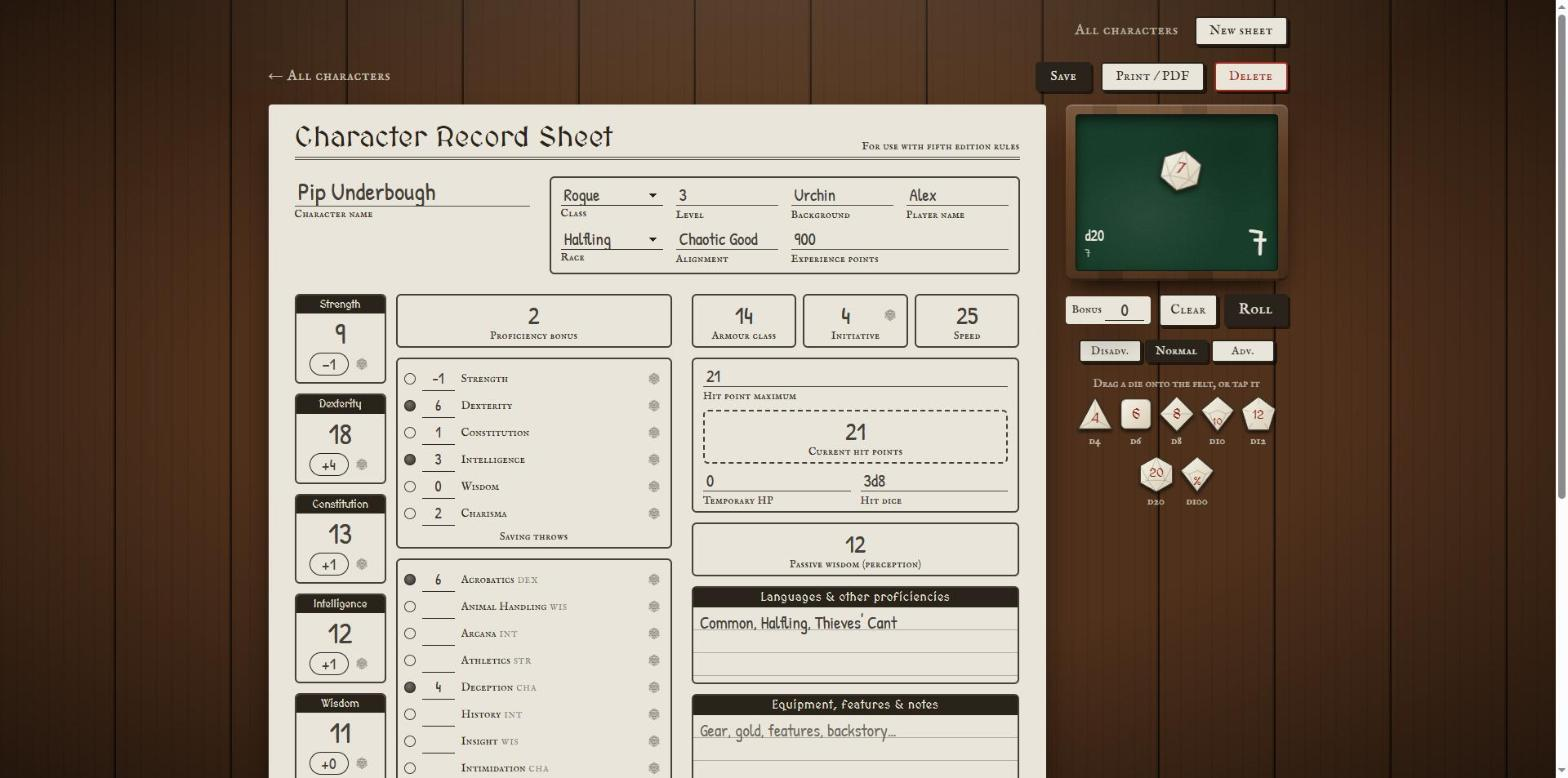
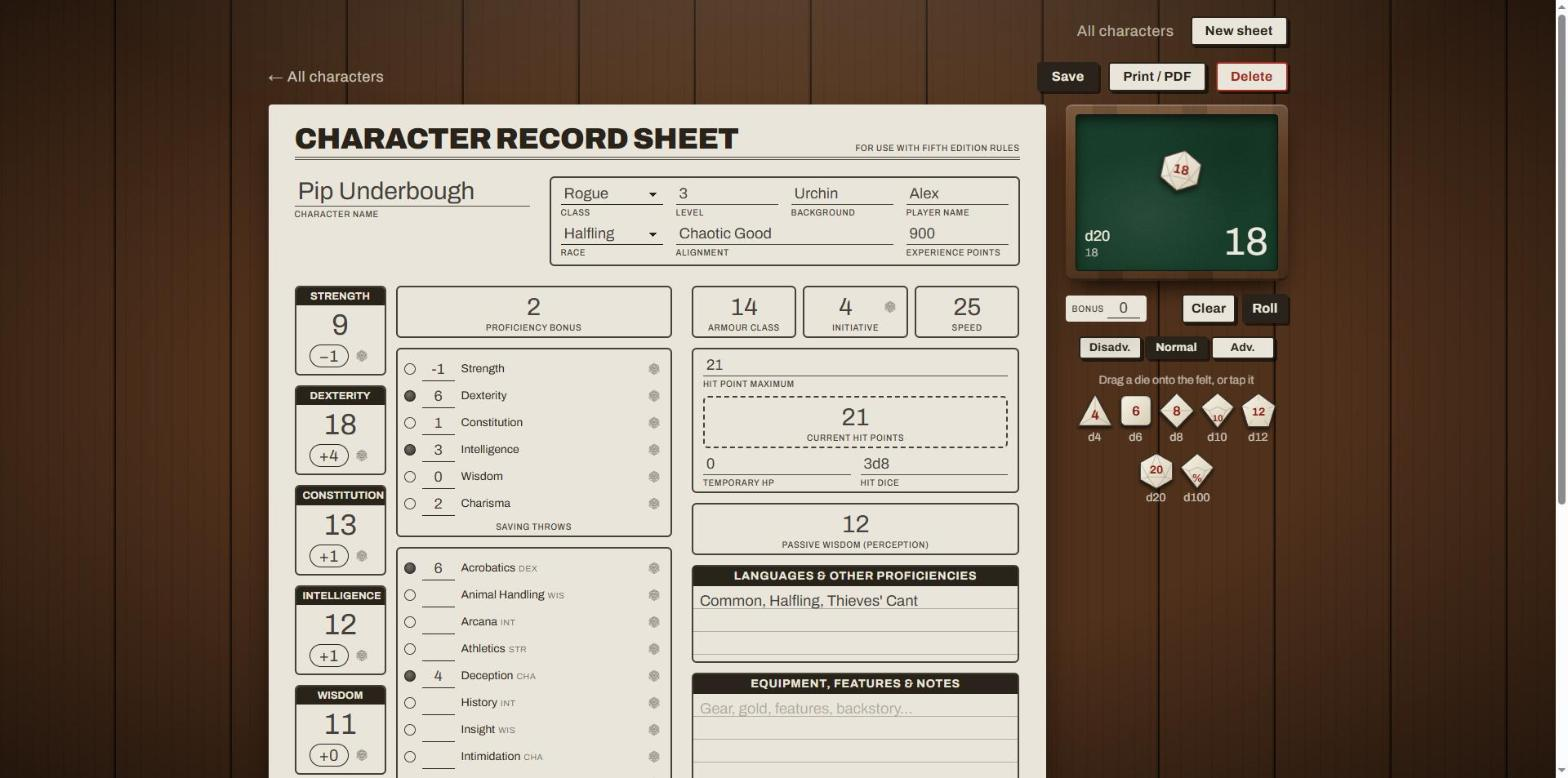
Use Archivo as the single font
Replaces the handwriting, small-caps serif and fantasy fonts with one
family, using weight for hierarchy: black for the sheet title, bold for
section bars and buttons, medium small capitals for printed labels and
regular for what the player writes. Numbers are tabular. The alignment
box now spans two columns so longer alignments fit, and the screenshots
are retaken.

diff --git a/frontend/src/components/character/DiceTray.jsx b/frontend/src/components/character/DiceTray.jsx
@@ -72,7 +72,7 @@ const Board = ({ roller, boardRef, highlight }) => {
       className={`tray-felt flex min-h-[12rem] flex-col p-3 transition ${highlight ? 'outline-2 outline-offset-[-6px] outline-dashed outline-[#ece8dc]/70' : ''}`}
     >
       {dice.length === 0 ? (
-        <p className="m-auto max-w-[13rem] text-center font-hand text-lg leading-snug text-[#e8e4d8]/75">
+        <p className="m-auto max-w-[13rem] text-center text-lg leading-snug text-[#e8e4d8]/75">
           Drag dice onto the felt, then press Roll.
         </p>
       ) : (
@@ -103,7 +103,7 @@ const Board = ({ roller, boardRef, highlight }) => {
       )}
 
       {(pool.length > 0 || rolled) && (
-        <div className="mt-2 flex items-end justify-between gap-2 font-hand text-[#ece8dc]" aria-live="polite">
+        <div className="mt-2 flex items-end justify-between gap-2 text-[#ece8dc]" aria-live="polite">
           <div className="min-w-0">
             <p className="truncate text-lg leading-tight">{latest?.label ?? roller.label ?? describePool(pool, Number(roller.modifier) || 0)}</p>
             {rolled && (
@@ -117,7 +117,7 @@ const Board = ({ roller, boardRef, highlight }) => {
         </div>
       )}
       {rolled?.critical && (
-        <p className={`text-center font-hand text-xl ${rolled.critical === 'success' ? 'text-[#f2d77a]' : 'text-[#f0a296]'}`}>
+        <p className={`text-center text-xl ${rolled.critical === 'success' ? 'text-[#f2d77a]' : 'text-[#f0a296]'}`}>
           {rolled.critical === 'success' ? 'Natural 20!' : 'Natural 1…'}
         </p>
       )}
@@ -150,17 +150,17 @@ const DiceTray = ({ roller }) => {
           <input
             type="number"
             aria-label="Bonus to add to the roll"
-            className="hand w-12 border-b-[1.5px] border-ink text-center"
+            className="hand w-10 border-b-[1.5px] border-ink text-center"
             value={roller.modifier}
             onChange={(e) => roller.setModifier(e.target.value)}
           />
         </label>
         <div className="flex gap-2">
-          <button type="button" className="btn px-3" onClick={roller.clearBoard} disabled={roller.pool.length === 0}>Clear</button>
+          <button type="button" className="btn px-2.5" onClick={roller.clearBoard} disabled={roller.pool.length === 0}>Clear</button>
           <button
             ref={rollButtonRef}
             type="button"
-            className="btn-dark px-4 text-lg"
+            className="btn-dark px-2.5"
             onClick={roller.roll}
             disabled={roller.pool.length === 0}
           >
@@ -213,7 +213,7 @@ const DiceTray = ({ roller }) => {
             <h3 className="label">Earlier rolls</h3>
             <button type="button" className="label cursor-pointer hover:text-redpen" onClick={roller.clearHistory}>clear</button>
           </div>
-          <ol className="mt-1 max-h-48 overflow-y-auto font-hand text-lg">
+          <ol className="mt-1 max-h-48 overflow-y-auto text-lg">
             {roller.history.slice(1).map((entry) => (
               <li key={entry.id} className="flex justify-between gap-2 border-b border-ink/20 text-pencil">
                 <span className="truncate">{entry.label}</span>

diff --git a/frontend/src/index.css b/frontend/src/index.css
@@ -2,10 +2,7 @@
 
 /* A paper character sheet on a table in a wood-panelled basement, circa 1994. */
 @theme {
-  --font-hand: "Patrick Hand", "Comic Sans MS", cursive;
-  --font-print: "IM Fell English SC", Georgia, serif;
-  --font-fantasy: "MedievalSharp", Georgia, serif;
-  --font-sans: "IM Fell English SC", Georgia, serif;
+  --font-sans: "Archivo", "Helvetica Neue", Arial, sans-serif;
 
   --color-wood-900: #1d1109;
   --color-wood-800: #2b190d;
@@ -24,7 +21,8 @@
 @layer base {
   body {
     @apply min-h-screen text-ink;
-    font-family: var(--font-print);
+    font-family: var(--font-sans);
+    font-variant-numeric: tabular-nums;
     background-color: var(--color-wood-800);
     background-image:
       radial-gradient(ellipse 65% 45% at 50% -8%, rgb(255 228 190 / 0.18), transparent 70%),
@@ -60,10 +58,8 @@
 /* Pencil on paper */
 @utility hand {
   @apply w-full bg-transparent text-pencil outline-none placeholder:text-ink/30;
-  font-family: var(--font-hand);
-  font-size: 1.3rem;
-  line-height: 1.2;
-  text-shadow: 0 0 0.6px rgb(69 64 58 / 0.55);
+  font-size: 1.15rem;
+  line-height: 1.3;
 
   &:focus {
     background: color-mix(in srgb, var(--color-highlighter) 45%, transparent);
@@ -71,8 +67,7 @@
 }
 
 @utility btn {
-  @apply inline-flex cursor-pointer items-center justify-center gap-2 rounded-sm border-2 border-ink bg-paper px-4 py-1 text-base tracking-[0.04em] text-ink transition select-none hover:-translate-y-px disabled:cursor-not-allowed disabled:opacity-50;
-  font-family: var(--font-print);
+  @apply inline-flex cursor-pointer items-center justify-center gap-2 rounded-sm border-2 border-ink bg-paper px-4 py-1 text-base font-bold tracking-[0.02em] text-ink transition select-none hover:-translate-y-px disabled:cursor-not-allowed disabled:opacity-50;
   box-shadow: 3px 3px 0 rgb(0 0 0 / 0.55);
 
   &:active {
@@ -90,15 +85,13 @@
 
   /* Printed label, as on a photocopied form */
   .label {
-    @apply block text-[0.8rem] leading-tight tracking-[0.04em] text-ink/85;
-    font-family: var(--font-print);
-    text-shadow: 0 0 0.5px rgb(42 35 27 / 0.6);
+    @apply block text-[0.7rem] leading-tight font-medium tracking-[0.06em] uppercase text-ink/85;
+    font-stretch: 87.5%;
   }
 
   /* Black header bar printed across a section */
   .bar {
-    @apply px-2 py-0.5 text-center text-sm tracking-[0.06em] text-paper;
-    font-family: var(--font-fantasy);
+    @apply px-2 py-0.5 text-center text-sm font-bold tracking-[0.06em] uppercase text-paper;
     background-color: var(--color-ink);
   }
 
@@ -230,7 +223,7 @@
 
 /* notistack toasts as scraps of paper */
 .notistack-MuiContent {
-  font-family: var(--font-hand) !important;
+  font-family: var(--font-sans) !important;
   font-size: 1.2rem !important;
   color: var(--color-ink) !important;
   background: var(--color-card) !important;

diff --git a/frontend/src/components/sheet/CharacterSheetForm.jsx b/frontend/src/components/sheet/CharacterSheetForm.jsx
@@ -28,7 +28,7 @@ const TextArea = ({ label, value, onChange, rows, placeholder, className = '' })
 const CharacterSheetForm = ({ sheet, set, roll, nameError }) => (
   <div className="paper rounded-sm px-4 py-6 sm:px-8">
     <div className="mb-5 flex flex-wrap items-end justify-between gap-2 border-b-4 border-double border-ink/85 pb-1">
-      <p className="text-3xl leading-none sm:text-4xl" style={{ fontFamily: 'var(--font-fantasy)' }}>Character Record Sheet</p>
+      <p className="text-3xl leading-none font-black tracking-tight uppercase sm:text-4xl">Character Record Sheet</p>
       <p className="label">For use with fifth edition rules</p>
     </div>
 
@@ -42,7 +42,7 @@ const CharacterSheetForm = ({ sheet, set, roll, nameError }) => (
           inputClassName="text-3xl"
           aria-invalid={Boolean(nameError)}
         />
-        {nameError && <p className="font-hand text-lg text-redpen" role="alert">{nameError}</p>}
+        {nameError && <p className="text-lg text-redpen" role="alert">{nameError}</p>}
       </div>
       <div className="box grid grid-cols-2 gap-x-4 gap-y-2 px-3 py-2 sm:grid-cols-4">
         <PickOrOther label="Class" options={CLASSES} value={sheet.characterClass} onChange={(v) => set('characterClass', v)} />
@@ -50,14 +50,13 @@ const CharacterSheetForm = ({ sheet, set, roll, nameError }) => (
         <LineField label="Background" value={sheet.background} maxLength={60} onChange={(v) => set('background', v)} />
         <LineField label="Player name" value={sheet.playerName} maxLength={60} onChange={(v) => set('playerName', v)} />
         <PickOrOther label="Race" options={RACES} value={sheet.race} onChange={(v) => set('race', v)} />
-        <LineField label="Alignment" value={sheet.alignment} maxLength={30} onChange={(v) => set('alignment', v)} />
+        <LineField label="Alignment" value={sheet.alignment} maxLength={30} onChange={(v) => set('alignment', v)} className="col-span-2" />
         <LineField
           label="Experience points"
           type="number"
           min={0}
           value={sheet.experiencePoints}
           onChange={(v) => set('experiencePoints', v)}
-          className="col-span-2"
         />
       </div>
     </header>

diff --git a/frontend/src/components/ui/States.jsx b/frontend/src/components/ui/States.jsx
@@ -3,9 +3,9 @@ import { GiDiceTwentyFacesTwenty } from 'react-icons/gi';
 export const Loading = ({ label = 'Loading…', slow = false }) => (
   <div role="status" className="flex flex-col items-center justify-center gap-3 py-16 text-center">
     <GiDiceTwentyFacesTwenty className="animate-spin text-5xl text-paper [animation-duration:1.4s]" aria-hidden="true" />
-    <p className="font-hand text-2xl text-paper">{label}</p>
+    <p className="text-2xl text-paper">{label}</p>
     {slow && (
-      <p className="max-w-sm font-hand text-lg text-paper/80">
+      <p className="max-w-sm text-lg text-paper/80">
         The server is starting up after a period of inactivity. This can take up to a minute.
       </p>
     )}
@@ -14,8 +14,8 @@ export const Loading = ({ label = 'Loading…', slow = false }) => (
 
 export const ErrorState = ({ title = 'Something went wrong', message, onRetry }) => (
   <div role="alert" className="index-card mx-auto max-w-md pt-2 text-center">
-    <h2 className="font-hand text-3xl text-redpen">{title}</h2>
-    <p className="mt-4 font-hand text-xl">{message}</p>
+    <h2 className="text-3xl text-redpen">{title}</h2>
+    <p className="mt-4 text-xl">{message}</p>
     {onRetry && (
       <button type="button" className="btn mt-5" onClick={onRetry}>Try again</button>
     )}
@@ -24,8 +24,8 @@ export const ErrorState = ({ title = 'Something went wrong', message, onRetry })
 
 export const EmptyState = ({ title, children, action }) => (
   <div className="index-card mx-auto max-w-md pt-2 text-center">
-    <h2 className="font-hand text-3xl">{title}</h2>
-    <div className="mt-4 font-hand text-xl">{children}</div>
+    <h2 className="text-3xl">{title}</h2>
+    <div className="mt-4 text-xl">{children}</div>
     {action && <div className="mt-6">{action}</div>}
   </div>
 );

diff --git a/frontend/src/pages/CharacterList.jsx b/frontend/src/pages/CharacterList.jsx
@@ -15,14 +15,14 @@ const summary = (c) => [c.level && `Level ${c.level}`, c.race, c.characterClass]
 
 const Stat = ({ label, value }) => (
   <span>
-    <span className="text-xs tracking-widest uppercase" style={{ fontFamily: 'var(--font-print)' }}>{label}</span>{' '}
+    <span className="text-xs tracking-widest uppercase">{label}</span>{' '}
     <span className="text-xl">{value ?? '—'}</span>
   </span>
 );
 
 const IndexCard = ({ character }) => (
-  <Link to={`/characters/${character._id}`} className="index-card font-hand">
-    <h2 className="truncate text-3xl leading-[34px]">{character.name}</h2>
+  <Link to={`/characters/${character._id}`} className="index-card">
+    <h2 className="truncate text-3xl leading-[34px] font-semibold">{character.name}</h2>
     <p className="mt-2 truncate text-xl leading-[27px]">{summary(character)}</p>
     <p className="flex gap-5 leading-[27px]">
       <Stat label="HP" value={character.hitPoints?.max} />

diff --git a/frontend/src/pages/CharacterPage.jsx b/frontend/src/pages/CharacterPage.jsx
@@ -68,7 +68,7 @@ const SheetEditor = ({ character }) => {
       <div className="no-print mb-4 flex flex-wrap items-center justify-between gap-3">
         <Link to="/" className="text-lg tracking-[0.04em] text-paper/80 hover:text-paper">← All characters</Link>
         <div className="flex flex-wrap items-center gap-3">
-          {dirty && <span className="font-hand text-lg text-paper/80">unsaved changes</span>}
+          {dirty && <span className="text-lg text-paper/80">unsaved changes</span>}
           <button type="submit" className="btn-dark" disabled={saving}>{saving ? 'Saving…' : 'Save'}</button>
           <button type="button" className="btn" onClick={() => window.print()}>Print / PDF</button>
           {character && <button type="button" className="btn-red" onClick={() => setConfirmDelete(true)}>Delete</button>}

diff --git a/frontend/src/components/sheet/fields.jsx b/frontend/src/components/sheet/fields.jsx
@@ -115,7 +115,7 @@ export const AbilityBox = ({ ability, value, onChange, onRoll }) => {
       />
       <div className="mb-2 flex items-center gap-1">
         <span
-          className="flex h-7 min-w-12 items-center justify-center rounded-full border-[1.5px] border-ink px-2 font-hand text-xl text-pencil"
+          className="flex h-7 min-w-12 items-center justify-center rounded-full border-[1.5px] border-ink px-2 text-xl text-pencil"
           aria-label={`${ability.name} modifier`}
         >
           {formatModifier(modifier)}

diff --git a/frontend/index.html b/frontend/index.html
@@ -13,7 +13,7 @@
     <link rel="preconnect" href="https://fonts.googleapis.com" />
     <link rel="preconnect" href="https://fonts.gstatic.com" crossorigin />
     <link
-      href="https://fonts.googleapis.com/css2?family=IM+Fell+English+SC&family=MedievalSharp&family=Patrick+Hand&display=swap"
+      href="https://fonts.googleapis.com/css2?family=Archivo:wdth,wght@75..100,400..900&display=swap"
       rel="stylesheet"
     />
   </head>

diff --git a/frontend/src/components/ui/ConfirmDelete.jsx b/frontend/src/components/ui/ConfirmDelete.jsx
@@ -23,7 +23,7 @@ const ConfirmDelete = ({ character, onClose, onDeleted }) => {
 
   return (
     <Modal open={Boolean(character)} title={`Delete ${character?.name}?`} onClose={busy ? () => {} : onClose}>
-      <p className="font-hand text-xl text-pencil">
+      <p className="text-xl text-pencil">
         This throws the sheet away for good. It cannot be undone.
       </p>
       <div className="mt-6 flex justify-end gap-3">

diff --git a/frontend/src/components/dice/DieShape.jsx b/frontend/src/components/dice/DieShape.jsx
@@ -36,8 +36,8 @@ const DieShape = ({ sides, value, size = 56, kept = true, className = '', style 
         x="50"
         y={shape.textY}
         textAnchor="middle"
-        fontFamily="MedievalSharp, Georgia, serif"
         fontSize={fontSize}
+        fontWeight="700"
         fill="#8b1e17"
       >
         {label}
